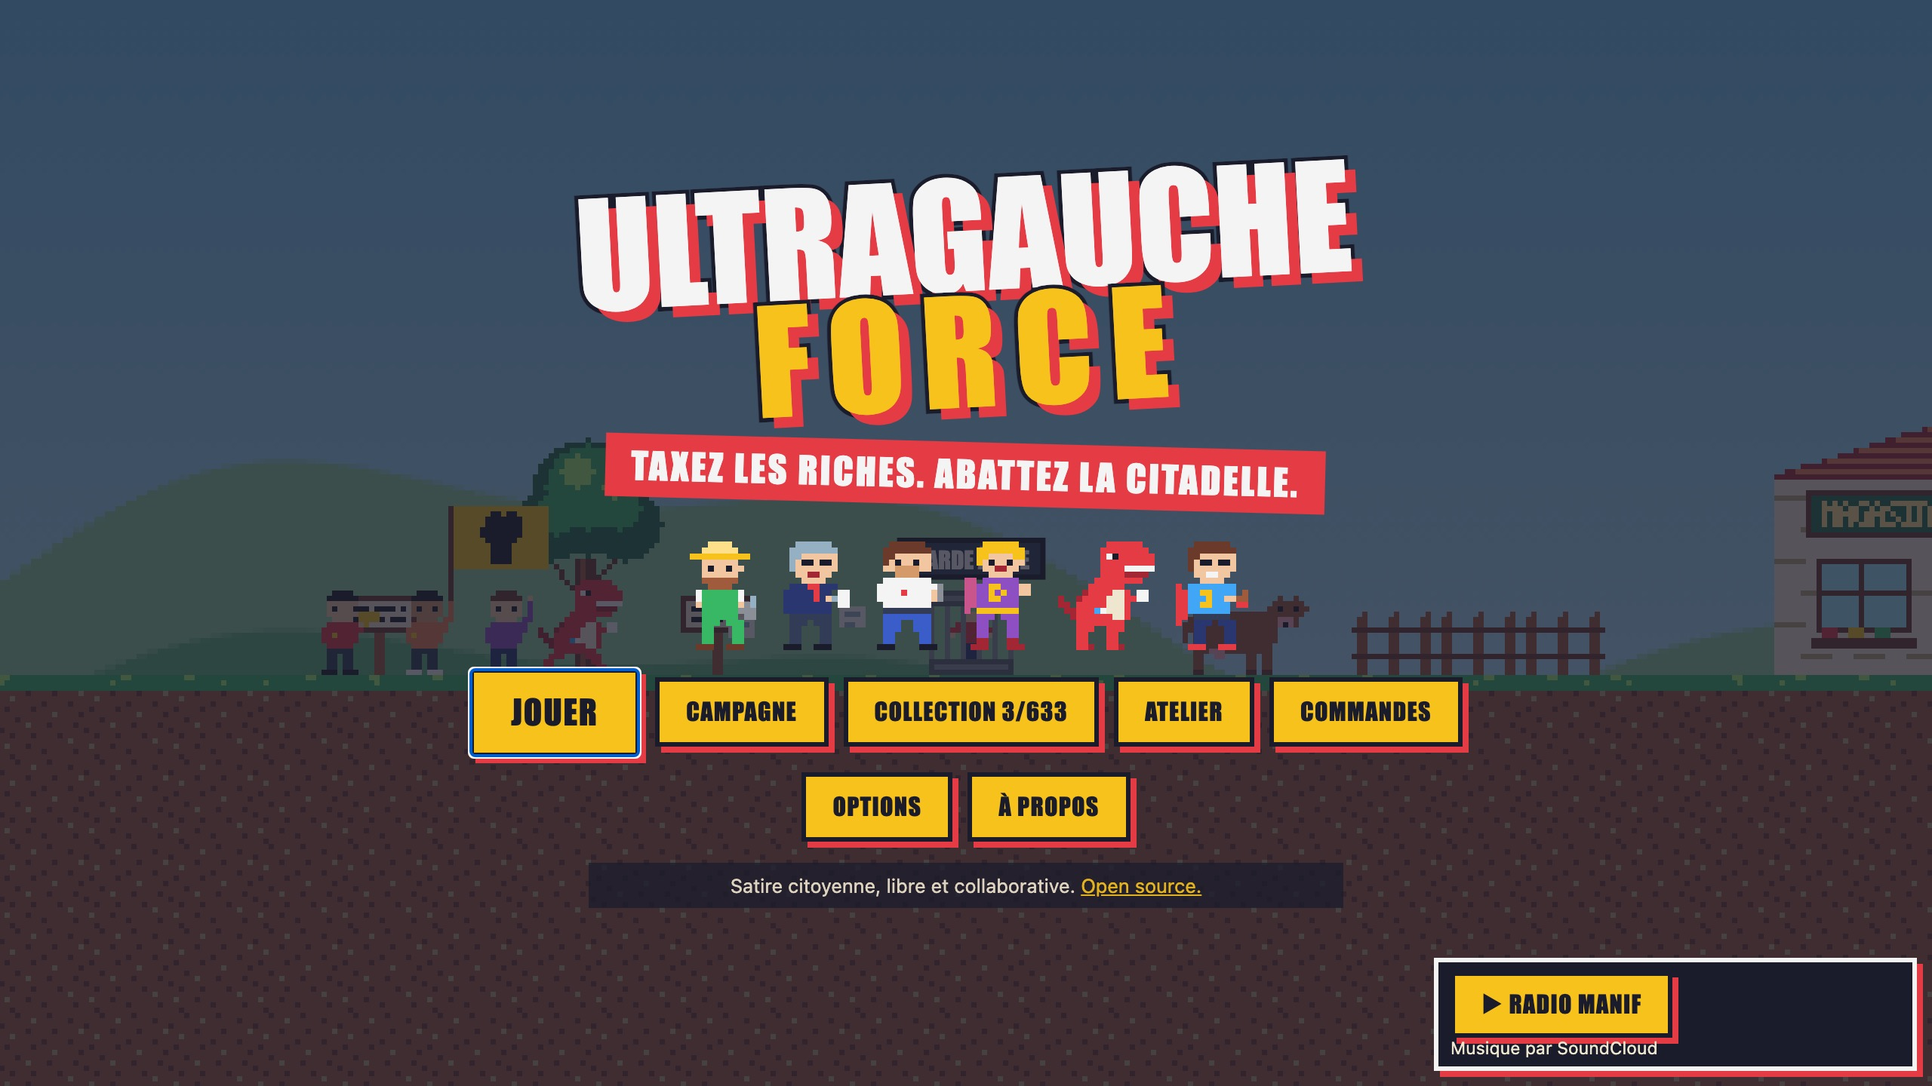
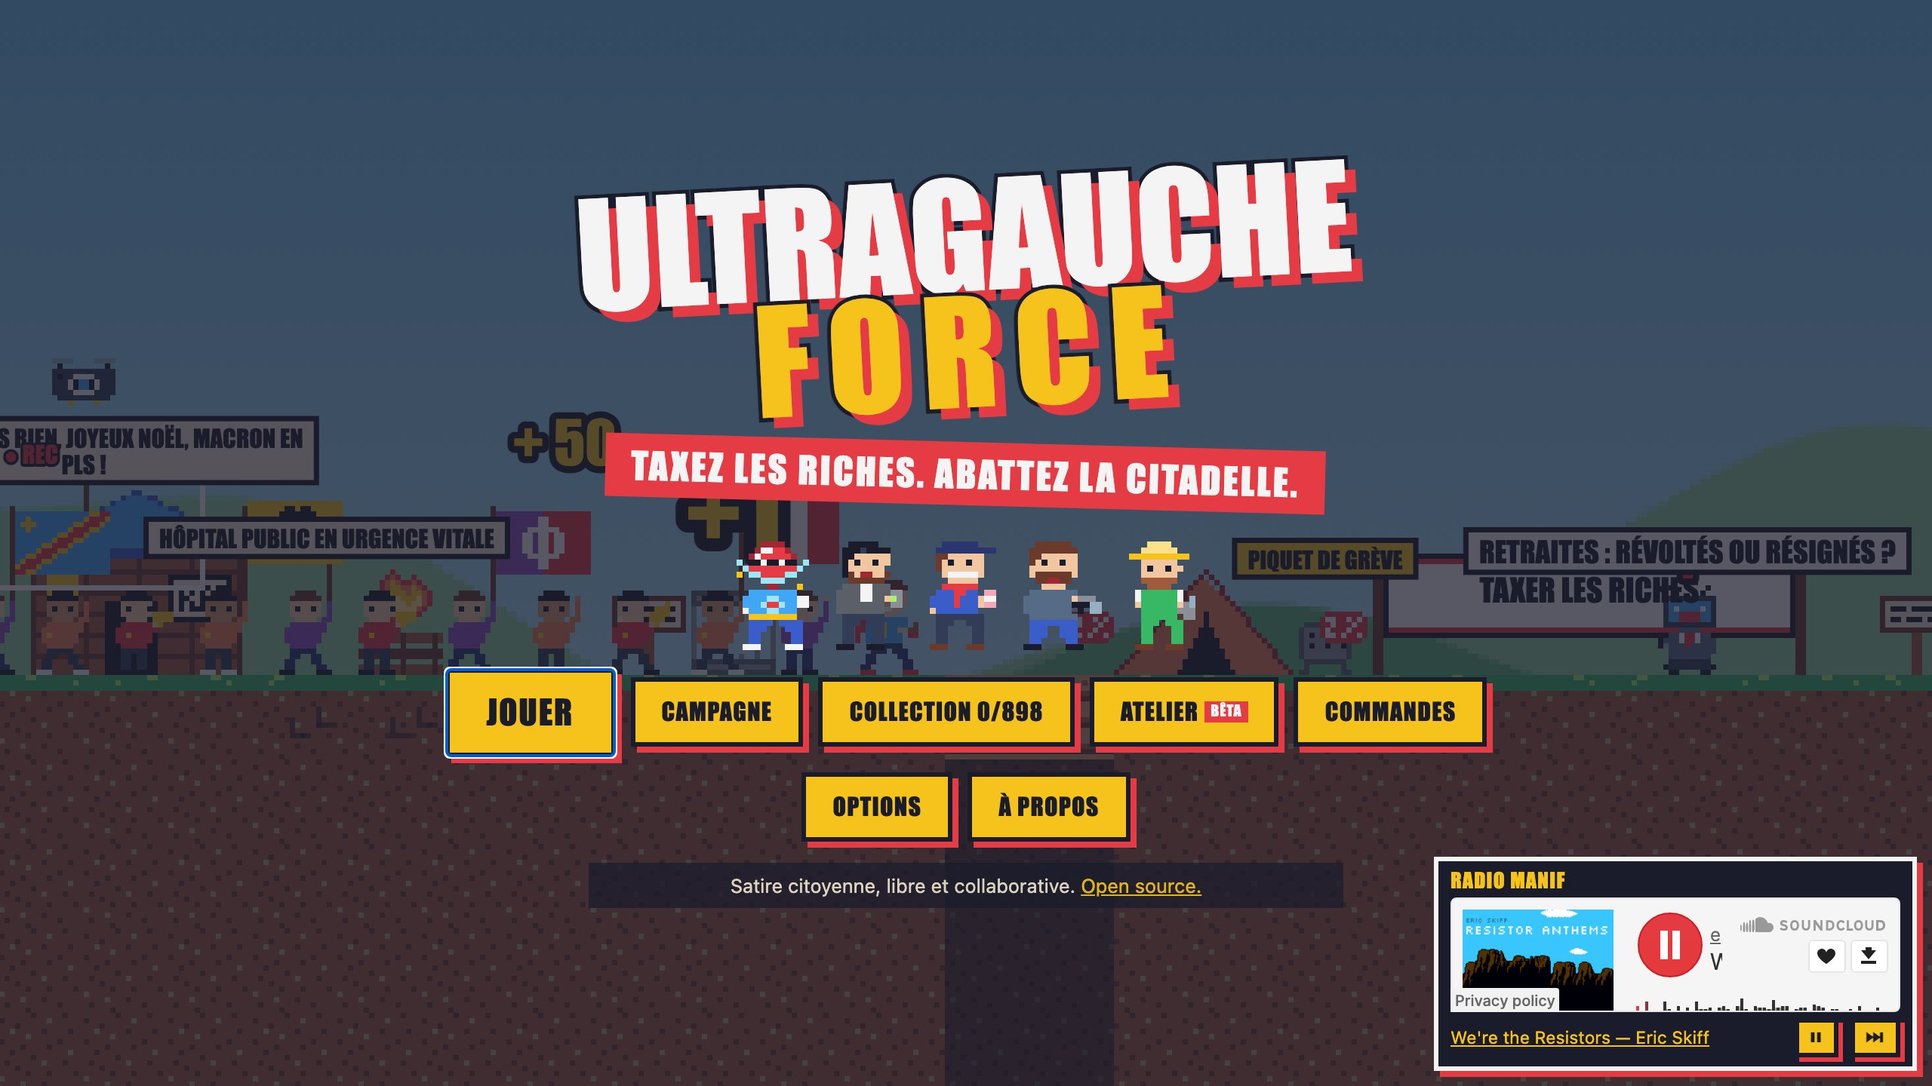
fix: prêt pour la publication, mentions légales, vote séparé du programme, cookies SoundCloud expliqués (#86)
* fix(taxe): « la fortune de la famille Hermès », plus « de la famille de la famille »

L'écran de taxe et l'image à partager préfixaient toujours « la famille de » à
l'inspiration du boss : « La fortune de la famille de la famille Hermès ».

- Un boss nommé d'après une famille (La Famille Hermès, Dassault, Decaux,
  Peugeot, La famille Despature, Hériard Dubreuil) dit « la famille <nom> ».
- Une inspiration qui parle déjà de famille se dit telle quelle.
- Sinon, rien ne change : « la famille de Vincent Bolloré ».

Un test passe sur les 26 boss : « famille » une seule fois, jamais « de la la ».
Capture réelle (Millevaches gagnée face à La Famille Hermès) :
docs/captures/publication-taxe-hermes-paysage-844.png, image à partager
docs/captures/publication-image-partage-hermes.png.

Audit avant publication, n° 5.

* feat(à-propos): mentions légales, éditeur anonyme et hébergeur

Valentin, 17 novembre 2026 : « anonyme + hébergeur , pas de pseudonyme visible
à cet endroit ».

- À propos → « Mentions légales » : éditeur, un particulier à titre non
  professionnel, identité communiquée à l'hébergeur (LCEN, art. 6-III-2) ;
  hébergeur GitHub, Inc., 88 Colin P. Kelly Jr. Street, San Francisco,
  CA 94107, États-Unis (adresse relue sur la déclaration de confidentialité
  de GitHub, docs.github.com, le 17 novembre 2026) ; contact par les issues
  du dépôt.
- Le même texte sans JavaScript : mentions-legales.html, dans le build, et
[…]

Changed region(s): [[0.0, 0.3125, 1.0, 0.7188], [0.7188, 0.7812, 1.0, 1.0], [0.5, 0.8438, 0.5625, 1.0]]

diff --git a/src/client/ui.js b/src/client/ui.js
@@ -15,6 +15,17 @@ import { makeRng } from '../sim/rng.js';
 import { SIGN_LINGER } from './render.js';
 
 const MENTION = 'Satire citoyenne, libre et collaborative.';
+
+/**
+ * Les mentions légales (LCEN) : un éditeur particulier, identifié auprès de l'hébergeur, sans nom ici.
+ * Valentin, 17 novembre 2026 : « anonyme + hébergeur, pas de pseudonyme visible à cet endroit ».
+ * Le même texte, sans JavaScript : `mentions-legales.html`.
+ */
+const legalNotice = () => [
+  h('p', {}, h('b', {}, 'Éditeur : '), 'un particulier, à titre non professionnel. Son identité a été communiquée à l’hébergeur (loi pour la confiance dans l’économie numérique).'),
+  h('p', {}, h('b', {}, 'Hébergeur : '), 'GitHub, Inc., 88 Colin P. Kelly Jr. Street, San Francisco, CA 94107, États-Unis.'),
+  h('p', {}, h('b', {}, 'Contact : '), link(`${REPO}/issues`, 'les issues du dépôt'), ' (il faut un compte GitHub).'),
+];
 const PANIC_NAMES = ['calme', 'alerte', 'hystérie']; // les trois crans de la chaîne
 const AIRTIME = 15; // secondes d'antenne d'une citation qui tient sur le fil
 const SCROLL = 3; // vitesse de défilement d'une ligne trop longue, en hauteurs de lettre par seconde
@@ -324,6 +335,7 @@ export class Screens {
       box.onchange = () => {
         this.save.options[key] = box.checked;
         if (key === 'musique') this.save.options.musiqueChoisie = true;
+        if (key === 'sobre') this.save.options.sobreChoisi = true; // le réglage du système ne décide plus
         storeSave(this.save);
         this.go.options();
       };
@@ -356,19 +368,29 @@ export class Screens {
 
   about() {
     const fold = (title, ...body) => h('details', {}, h('summary', {}, title), ...body);
+    const programme = Object.values(this.bundle.fiches).filter((x) => x.theme === 'programme');
     this.show('liste apropos',
       h('h2', {}, 'À propos'),
       h('p', {}, MENTION),
       h('p', {}, link(REPO, 'Le dépôt'), ' · ', link(`${REPO}/blob/main/CONTRIBUTING.md`, 'Contribuer'), ' · ',
         link(`${REPO}/blob/main/CHARTE.md`, 'La charte'), ' · ', h('a', { href: 'galerie.html' }, 'La Galerie')),
+      programme.length ? this.button('Le programme de L’Avenir en commun', () => {
+        this.go.learn(programme.map((x) => x.id)); // le lire, c'est le débloquer dans la Collection
+        this.collection('propositions', { back: () => this.about() });
+      }, 'discret') : null,
       measuring() && fold('Mesure d’audience anonyme (PostHog) : ni cookie, ni profil.',
         h('p', {}, 'Le jeu compte les visites, les parties par niveau et par héros (gagnée, perdue ou abandonnée, leur durée, la taille de la manif), les pistes de Radio Manif écoutées, passées ou mises en pause, et ce qui empêche de jouer : contenu ou musique injoignables, erreurs. Les visiteurs sont comptés par jour, sur les serveurs de PostHog, d’après une empreinte qui change chaque jour. Rien n’est écrit sur ton appareil pour cela, et rien de ce que tu écris dans l’Atelier ne part.')),
+      fold('Radio Manif : le lecteur et les cookies de SoundCloud',
+        h('p', {}, 'La musique passe par le lecteur de SoundCloud, chargé dès l’ouverture du jeu. SoundCloud y dépose ses propres cookies et traceurs, par exemple le cookie ', h('code', {}, 'sc_anonymous_id'), ' et le script de mesure de ', h('code', {}, 'dwt.soundcloud.com'), '. Le jeu ne les lit pas et n’en reçoit rien.'),
+        h('p', {}, 'Couper Radio Manif dans les Options arrête la musique, pas le lecteur : il reste chargé, muet, pour repartir d’un toucher. Pour que SoundCloud ne se charge pas du tout, bloque ', h('code', {}, 'w.soundcloud.com'), ' dans ton navigateur (un bloqueur de contenu suffit) : le jeu marche sans musique.')),
+      fold('Mentions légales', ...legalNotice()),
       fold('Références', h('ul', {}, REFERENCES.map((r) => h('li', {}, link(r.url, r.titre), ` — ${r.note}`)))),
       fold('Crédits et licences',
-        h('p', {}, 'Code : MIT. Contenus : CC BY-SA 4.0. Bruitages synthétisés avec ZzFX de Frank Force (MIT).'),
+        h('p', {}, 'Code : MIT. Contenus : CC BY-SA 4.0, sauf mention contraire. Bruitages synthétisés avec ZzFX de Frank Force (MIT).'),
         h('ul', {}, Object.values(this.bundle.sons).filter((x) => x.fichier).map((x) =>
           h('li', {}, link(x.source, x.nom), ` — ${x.auteur}, ${licenceName(x.licence)}`))),
-        h('p', {}, h('b', {}, 'Radio Manif : '), Object.values(this.bundle.musiques).map((m, i) => [i ? ' · ' : '', link(m.url, m.titre), ` — ${m.artiste}`]))),
+        h('p', {}, h('b', {}, 'Radio Manif : '), Object.values(this.bundle.musiques).map((m, i) => [i ? ' · ' : '', link(m.url, m.titre), ` — ${m.artiste}`,
+          /^CC-/.test(m.licence || '') ? `, ${licenceName(m.licence)}` : '']))),
       h('div', { className: 'pied' }, this.back()));
     this.escape = () => this.menu();
   }
@@ -551,18 +573,19 @@ export class Screens {
         this.button('Menu', () => this.go.quit(), 'discret')));
   }
 
-  /** Dernier écran : un appel au vote citoyen. Les dates, deux démarches, le programme ; pas de consigne. */
+  /**
+   * Dernier écran : un appel au vote citoyen, les dates et deux démarches, rien d'autre. Le programme est ailleurs
+   * (À propos, Collection) : Valentin, 17 novembre 2026, « Séparer les deux ».
+   */
   final() {
     const f = this.bundle.fiches;
     const [dates, ...steps] = VOTE_FICHES.map((id) => f[id]).filter(Boolean);
-    const programme = Object.values(f).filter((x) => x.theme === 'programme');
-    this.go.learn([dates, ...steps, ...programme].filter(Boolean).map((x) => x.id)); // ce qu'on lit ici entre dans la Collection
+    this.go.learn([dates, ...steps].filter(Boolean).map((x) => x.id)); // ce qu'on lit ici entre dans la Collection
     this.show('vote',
       h('h2', { className: 'appel' }, 'Allez voter.'),
       h('p', { className: 'dates' }, dates ? link(dates.source.url, 'Dimanche 18 avril et dimanche 2 mai 2027') : 'Dimanche 18 avril et dimanche 2 mai 2027'),
       h('nav', {},
-        steps.map((x) => h('a', { className: 'bouton', href: x.source.url, target: '_blank', rel: 'noopener' }, x.titre)),
-        programme.length ? this.button('Le programme', () => this.collection('propositions', { back: () => this.final() })) : null),
+        steps.map((x) => h('a', { className: 'bouton', href: x.source.url, target: '_blank', rel: 'noopener' }, x.titre))),
       h('div', { className: 'pied' },
         this.button('Menu', () => this.go.quit(), 'gros'),
         h('a', { className: 'bouton discret', href: REPO, target: '_blank', rel: 'noopener' }, 'Contribuer au jeu')));

diff --git a/tests/taxe.test.js b/tests/taxe.test.js
@@ -3,7 +3,8 @@
 import { test } from 'node:test';
 import assert from 'node:assert/strict';
 import { loadContent } from '../tools/content.mjs';
-import { taxNumbers, perYear, round, money, draw, heap, stackYearsFor, usesFor, MIN_COUNT, SLOGANS } from '../src/client/tax.js';
+import { taxNumbers, perYear, round, money, draw, heap, stackYearsFor, usesFor, fortuneOwner, MIN_COUNT, SLOGANS } from '../src/client/tax.js';
+import { de } from '../src/client/dom.js';
 import { TAX_RATES, taxFiches, taxScales, taxUses, taxShocks } from '../src/client/collection.js';
 
 const { bundle } = loadContent();
@@ -131,4 +132,19 @@ test('taxe : une fortune d’un milliard se compte en liasses de moins d’un an
     const count = years / stackYearsFor(years);
     assert.ok(stackYearsFor(years) < 1 && count > 285 && count <= 380, `${years} années : ${count} liasses`);
   }
+});
+
+test('taxe : la fortune d’une famille ne se dit qu’une fois « famille », pour chaque boss', () => {
+  for (const boss of Object.values(bundle.boss)) {
+    const line = `La fortune ${de(fortuneOwner(boss))}`;
+    assert.equal((line.match(/famille/gi) || []).length <= 1, true, `${boss.id} : ${line}`);
+    assert.doesNotMatch(line, /de la la|de de|famille de la famille/i, boss.id);
+  }
+  const by = (nom, inspiration) => fortuneOwner({ nom, inspiration });
+  assert.equal(by('La Famille Hermès', 'la famille Hermès, avec Axel Dumas, son gérant'), 'la famille Hermès');
+  assert.equal(by('La famille Despature', 'Jean-Guillaume Despature et sa famille'), 'la famille Despature');
+  assert.equal(by('Famille Peugeot', 'Thierry Peugeot'), 'la famille Peugeot');
+  assert.equal(by('Le Paratonnerre', 'Vincent Bolloré'), 'la famille de Vincent Bolloré');
+  assert.equal(by('Un boss', 'un fondateur et sa famille'), 'un fondateur et sa famille');
+  assert.equal(by('Un boss', ''), 'Un boss');
 });

diff --git a/tests/sauvegarde.test.js b/tests/sauvegarde.test.js
@@ -4,7 +4,7 @@
 import { test } from 'node:test';
 import assert from 'node:assert/strict';
 import { readdirSync, readFileSync } from 'node:fs';
-import { upgrade, VERSION, isFound, isReadOnly, storeSave, loadSave, discover, eraseProgress } from '../src/client/save.js';
+import { upgrade, VERSION, isFound, isReadOnly, storeSave, loadSave, discover, eraseProgress, followSystemMotion } from '../src/client/save.js';
 import { loadContent } from '../tools/content.mjs';
 import { allCards, cardKey, rarityCounts } from '../src/client/collection.js';
 
@@ -150,4 +150,18 @@ test('pas de sauvegarde, ou une sauvegarde illisible : on repart de zéro, sans 
     assert.deepEqual(save.decouvertes, []);
     assert.equal(save.options.son, true);
   }
+});
+
+test('effets réduits : le réglage du système décide, tant que le joueur n’a pas choisi', () => {
+  const fresh = upgrade(null).options;
+  assert.equal(followSystemMotion(fresh, true), true);
+  assert.equal(fresh.sobre, true, 'système en mouvement réduit : coché d’office');
+  followSystemMotion(fresh, false);
+  assert.equal(fresh.sobre, false, 'le système change d’avis : le jeu suit');
+  const chosen = { ...upgrade(null).options, sobre: false, sobreChoisi: true };
+  followSystemMotion(chosen, true);
+  assert.equal(chosen.sobre, false, 'le joueur a décoché : son choix reste');
+  const older = { ...upgrade(null).options, sobre: true };
+  followSystemMotion(older, false);
+  assert.equal(older.sobre, true, 'une ancienne sauvegarde cochée à la main reste cochée');
 });

diff --git a/src/client/main.js b/src/client/main.js
@@ -13,7 +13,7 @@ import { showTaxScene, draw } from './tax.js';
 import { CRS_OCTOBRE_2026 } from './blesses.js';
 import { shareImage, openShare } from './share.js';
 import { measure, runStarted, runEnded, heroRescued } from './mesure.js';
-import { loadSave, storeSave, discover, isFound } from './save.js';
+import { loadSave, storeSave, discover, isFound, followSystemMotion } from './save.js';
 import { cardName, citationOfWord, levelOrder, signNote, taxShocks } from './collection.js';
 import { registerServiceWorker } from './sw-register.js';
 
@@ -23,6 +23,9 @@ const bundle = await (async () => (await (window.contentRequest ?? fetch('conten
   throw error;
 });
 const save = loadSave();
+// Le système demande moins de mouvement : « Effets réduits » est coché d'office, tant que le joueur n'a rien choisi.
+const reducedMotion = matchMedia('(prefers-reduced-motion: reduce)');
+followSystemMotion(save.options, reducedMotion.matches);
 const screenRoot = document.getElementById('ecran');
 const audio = new Audio(bundle);
 const radio = new Radio(bundle, document.getElementById('radio'));
@@ -558,6 +561,7 @@ if (new URLSearchParams(location.search).has('debug')) {
 
 layout();
 applyOptions();
+reducedMotion.addEventListener?.('change', (e) => followSystemMotion(save.options, e.matches) && applyOptions());
 registerServiceWorker((apply) => {
   screens.update = apply; // une nouvelle version attend : le menu la propose, jamais en pleine partie
   if (mode === 'menu' && screens.open) screens.menu();

diff --git a/src/client/tax.js b/src/client/tax.js
@@ -43,6 +43,19 @@ export const SLOGANS = [
 
 export { round, money }; // arrondis vers le bas : voir `dom.js`
 /** Ce que vaut une fiche sur un an : sa valeur, douze fois si elle est donnée par mois (`par: mois`). */
+/**
+ * À qui est la fortune, tel que l'écran de taxe et l'image à partager l'écrivent après « La fortune de ».
+ * Un boss nommé d'après une famille (« La Famille Hermès ») la nomme ; une inspiration qui parle déjà de famille
+ * (« Jean-Guillaume Despature et sa famille ») se dit telle quelle ; sinon, la famille de l'inspiration.
+ */
+export function fortuneOwner(boss) {
+  const family = /^(?:la\s+)?famille\s+(.+)$/i.exec(String(boss.nom).trim());
+  if (family) return `la famille ${family[1]}`;
+  if (!boss.inspiration) return boss.nom;
+  if (/\bfamille\b/i.test(boss.inspiration)) return boss.inspiration;
+  return `la famille ${de(boss.inspiration)}`;
+}
+
 export const perYear = (fact) => fact.valeur * (fact.par === 'mois' ? 12 : 1);
 
 /**
@@ -219,7 +232,7 @@ export function showTaxScene(root, bundle, boss, { audio = null, hero = null, pi
       state[key] = 1;
     };
 
-    const owner = boss.inspiration ? `la famille ${de(boss.inspiration)}` : boss.nom;
+    const owner = fortuneOwner(boss);
     const under = yearly > tax; // 2 % pèsent moins que ce que la fortune rapporte en un an
     const rule = fiche('impot-plancher');
     const [most, billionaires] = TAX_RATES.map(fiche);

diff --git a/mentions-legales.html b/mentions-legales.html
@@ -1,0 +1,24 @@
+<!doctype html>
+<html lang="fr">
+<head>
+  <meta charset="utf-8">
+  <meta name="viewport" content="width=device-width, initial-scale=1">
+  <title>Mentions légales — UltraGauche Force</title>
+  <meta name="theme-color" content="#1a1c2c">
+  <style>
+    body { margin: 0; padding: 24px 16px; background: #1a1c2c; color: #f4f4f4; font: 1rem/1.5 system-ui, sans-serif; }
+    main { max-width: 640px; margin: 0 auto; }
+    a { color: #f6c21c; }
+  </style>
+</head>
+<body>
+  <!-- Le même texte que le repli « Mentions légales » de l'À propos (src/client/ui.js), lisible sans JavaScript. -->
+  <main>
+    <h1>Mentions légales</h1>
+    <p><b>Éditeur :</b> un particulier, à titre non professionnel. Son identité a été communiquée à l’hébergeur (loi pour la confiance dans l’économie numérique).</p>
+    <p><b>Hébergeur :</b> GitHub, Inc., 88 Colin P. Kelly Jr. Street, San Francisco, CA 94107, États-Unis.</p>
+    <p><b>Contact :</b> <a href="https://github.com/macraoke/ultragaucheforce/issues">les issues du dépôt</a> (il faut un compte GitHub).</p>
+    <p><a href="./">Retour au jeu</a></p>
+  </main>
+</body>
+</html>

diff --git a/style.css b/style.css
@@ -294,6 +294,9 @@ body.sobre #hud-charges.demande, body.sobre #tactile b.demande { animation: none
 @keyframes grossit { 0% { transform: scale(1.7); } 100% { transform: scale(1); } }
 body.sobre #hud-manif.grossit { animation: none; }
 #pause { pointer-events: auto; font-size: 1em; padding: .35em .6em; box-shadow: 2px 2px 0 var(--rouge); text-shadow: none; }
+/* Au pouce, le dessin ne change pas, mais le doigt a une zone d'au moins 48 pixels autour de lui. */
+body.tactile #pause { position: relative; }
+body.tactile #pause::after { content: ''; position: absolute; left: 50%; top: 50%; width: max(100%, 48px); height: max(100%, 48px); transform: translate(-50%, -50%); }
 /* En essai depuis l'Atelier : le retour à l'édition, à gauche de la pause. */
 #edition { pointer-events: auto; font-size: 1em; padding: .35em .6em; background: var(--nuit); color: var(--papier); border-color: var(--papier); box-shadow: 2px 2px 0 var(--rouge); text-shadow: none; }
 #edition:hover { background: var(--encre); }

diff --git a/src/client/save.js b/src/client/save.js
@@ -124,6 +124,20 @@ export function storeSave(save, { erase = false } = {}) {
   }
 }
 
+/**
+ * « Effets réduits » suit le réglage du système (`prefers-reduced-motion`) tant que le joueur n'a pas choisi lui-même.
+ * `sobreChoisi` absent (une sauvegarde d'avant) : des effets réduits déjà cochés l'avaient été à la main.
+ * @returns {boolean} vrai si la valeur a changé
+ */
+export function followSystemMotion(options, reduce) {
+  const chosen = options.sobreChoisi ?? options.sobre === true;
+  if (chosen) return false;
+  const before = options.sobre;
+  options.sobre = Boolean(reduce);
+  options.sobreChoisi = false;
+  return before !== options.sobre;
+}
+
 /** Le joueur efface sa progression ; ses options et son brouillon restent. */
 export function eraseProgress(save) {
   Object.assign(save, { termines: {}, records: {}, decouvertes: [], vues: {}, heros: '' });

diff --git a/tests/collection.test.js b/tests/collection.test.js
@@ -49,6 +49,7 @@ test('collection : chaque carte se débloque quelque part en jouant', () => {
   assert.deepEqual(hint('pancartes', 'TAXEZ LES RICHES'), ['dans la manif']);
   assert.deepEqual(hint('citations', 'melenchon-bruit-et-fureur'), ["L'Ingénieur du chaos"], 'les mots du héros viennent de sa citation');
   assert.deepEqual(hint('fiches', 'procuration'), ['à la fin de la campagne']);
+  assert.deepEqual(hint('fiches', 'programme-energie'), ['dans À propos, « Le programme de L’Avenir en commun »'], 'le programme n’est pas sur l’écran du vote');
   assert.deepEqual(hint('fiches', 'patrimoine-moitie'), ['en taxant une fortune']);
   assert.ok(hint('ennemis', 'gendarme-mobile').length >= 1, 'les renforts de l’hélicoptère comptent');
 });

diff --git a/src/client/collection.js b/src/client/collection.js
@@ -166,7 +166,8 @@ export function whereToFind(bundle, kind, item) {
       if (holders.length) return holders;
       if (Object.values(bundle.boss).some((b) => taxFiches(bundle, b).includes(item.id))) return ['en taxant une fortune'];
       if (item.theme === 'droits') return ['en libérant un camarade'];
-      if (item.theme === 'programme' || VOTE_FICHES.includes(item.id)) return ['à la fin de la campagne'];
+      if (item.theme === 'programme') return ['dans À propos, « Le programme de L’Avenir en commun »'];
+      if (VOTE_FICHES.includes(item.id)) return ['à la fin de la campagne'];
       return [];
     }
     default: return [];

diff --git a/tests/build.test.js b/tests/build.test.js
@@ -17,7 +17,7 @@ test('le build produit un site complet, installable et jouable hors-ligne', (t) 
   const { version, files, bytes } = build(out);
   const read = (path) => readFileSync(join(out, path));
 
-  for (const path of ['index.html', 'galerie.html', 'style.css', 'manifest.webmanifest', 'content.json', 'sw.js',
+  for (const path of ['index.html', 'galerie.html', 'mentions-legales.html', 'style.css', 'manifest.webmanifest', 'content.json', 'sw.js',
     'src/client/main.js', 'src/sim/game.js', 'src/content/rules.js']) {
     assert.ok(existsSync(join(out, path)), `${path} est dans le build`);
   }

diff --git a/index.html b/index.html
@@ -68,11 +68,11 @@
     <section class="panneau menu chargement">
       <div class="logo"><span>UltraGauche</span><span>Force</span></div>
       <p class="devise">Taxez les riches. Abattez la Citadelle.</p>
+      <noscript><p class="mention">UltraGauche Force a besoin de JavaScript pour fonctionner. <a href="mentions-legales.html">Mentions légales</a></p></noscript>
     </section>
   </div>
   <div id="radio" hidden></div>
 
-  <noscript>UltraGauche Force a besoin de JavaScript pour fonctionner.</noscript>
   <script type="module" src="src/client/main.js"></script>
 </body>
 </html>
